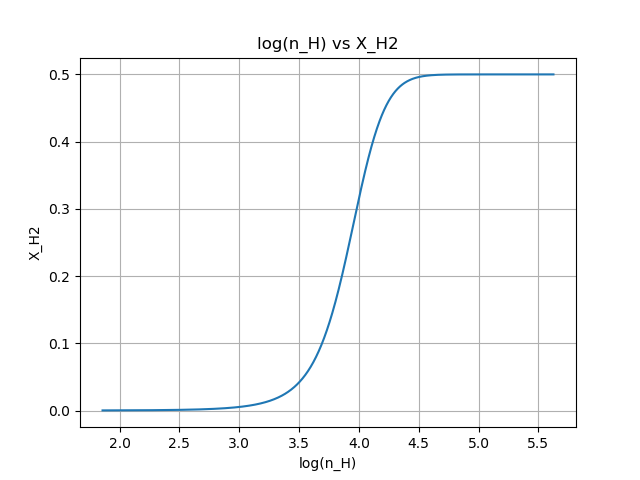
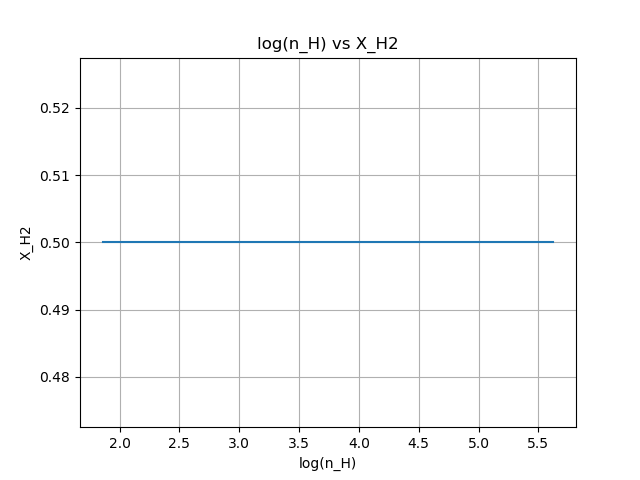
Modified the initial code for self shielding
Modified the initial code for self shielding of H2, but X_H2 is still constant at the same value (0.5), which needs to be solved yet.

diff --git a/X_CO_self_shielding.py b/X_CO_self_shielding.py
@@ -22,27 +22,24 @@ def calc_n_LW(n_H, G_o, lambda_jeans):
     n_LW = rad_field_outside * exp_tau
     return n_LW
 
-def calc_n_LW2(n_H, n_H2, G_o, lambda_jeans, X_H2):
+def calc_n_LW_ss(n_H, n_H2, G_o, lambda_jeans):
     m_p = 1.672621777e-24   # g
     kappa = 1000 * m_p
     rad_field_outside = G_o #in solar units
     exp_tau_H = np.exp(-kappa * n_H * lambda_jeans)
-    exp_tau_H2 = np.exp(-kappa * n_H2 * lambda_jeans)
-    n_LW2 = rad_field_outside * exp_tau_H * exp_tau_H2 * (1 - X_H2)
-    return n_LW2
-
-def calc_n_LW_ss(n_H, n_H2, G_o, lambda_jeans, sigma_s):
-    m_p = 1.672621777e-24   # g
-    kappa = 1000 * m_p
-    rad_field_outside = G_o #in solar units
-    exp_tau_H = np.exp(-kappa * n_H * lambda_jeans)
-    N_s = n_H2 * lambda_jeans
-    N_H2 = n_H2 * 3e18
-    term1 = 0.965 / ((1 + (np.sqrt(N_H2*N_s)/(np.sqrt(2)*5e4*sigma_s)) )**2)
-    term2 = (0.035 / np.sqrt(1 + (N_H2/5e4) ) ) * np.exp(-1 * np.sqrt(1 + (N_H2/5e4) ) / 1180 )
+    term1 = (0.965/((1+((n_H2*lambda_jeans)/5e4))**2))
+    term2 = ( (0.035/np.sqrt(1+((n_H2*lambda_jeans)/5e4))) * np.exp(-1*np.sqrt(1+((n_H2*lambda_jeans)/5e4))/1180) )
     exp_tau_H2 = term1 + term2
-    n_LW2 = rad_field_outside * exp_tau_H * exp_tau_H2
-    return n_LW2
+    n_LW_ss = rad_field_outside * exp_tau_H * exp_tau_H2
+    return n_LW_ss, exp_tau_H2
+
+def calc_X_H2_ss(n_H, Z, n_LW_ss):
+    DC = 1.7e-11
+    CC = 2.5e-17            #cm3 s-1
+    numerator = DC * n_LW_ss
+    denominator = CC * Z * n_H
+    X_H2 = 1 / (2 + (numerator/denominator) )
+    return X_H2
 
 def calc_X_H2(n_H, Z, n_LW):
     DC = 1.7e-11
@@ -52,9 +49,9 @@ def calc_X_H2(n_H, Z, n_LW):
     X_H2 = 1 / (2 + (numerator/denominator) )
     return X_H2
 
-def calc_X_CO(n_H, n_H2, n_LW2):
-    rate_CHX = 5.e-10 * n_LW2
-    rate_CO = 1.e-10 * n_LW2
+def calc_X_CO(n_H, n_H2, n_LW):
+    rate_CHX = 5.e-10 * n_LW
+    rate_CO = 1.e-10 * n_LW
     x0 = 2.e-4
     k0 = 5.e-16 #cm3 s-1
     k1 = 5.e-10 #cm3 s-1
@@ -76,6 +73,7 @@ def CO_density():
     n_H = np.zeros(1000)
     n_LW = np.zeros(1000)
     n_LW_ss = np.zeros(1000)
+    exp_tau_H2 = np.zeros(1000)
     n_H2 = np.zeros(1000)
     X_CO = np.zeros(1000)
     n_CO = np.zeros(1000)
@@ -89,43 +87,68 @@ def CO_density():
     n_H_mean = 1e4
     Z = 1
     G_o = 1
+    flag = [None]*1000
+    n_LW_1 = np.zeros(1000)
+    n_LW_2 = np.zeros(1000)
+    n_LW_3 = np.zeros(1000)
+    n_LW_4 = np.zeros(1000)
+    n_LW_5 = np.zeros(1000)
+    X_H2_1 = np.zeros(1000)
+    X_H2_2 = np.zeros(1000)
+    X_H2_3 = np.zeros(1000)
+    X_H2_4 = np.zeros(1000)
+    X_H2_5 = np.zeros(1000)
+    n_H2_1 = np.zeros(1000)
+    n_H2_2 = np.zeros(1000)
+    n_H2_3 = np.zeros(1000)
+    n_H2_4 = np.zeros(1000)
+    n_H2_5 = np.zeros(1000)
+    exp_tau_H2_2 = np.zeros(1000)
+    exp_tau_H2_3 = np.zeros(1000)
+    exp_tau_H2_4 = np.zeros(1000)
+    exp_tau_H2_5 = np.zeros(1000)
+
     for i in range(0, 1000):
         s[i] = smin + i*ds
-        pdf = make_pdf(s, s_bar, sigma_s)
-        n_H = n_H_mean * np.exp(s)
-        lambda_jeans = calc_lambda_jeans(n_H)
+        pdf[i] = make_pdf(s[i], s_bar, sigma_s)
+        n_H[i] = n_H_mean * np.exp(s[i])
+        lambda_jeans[i] = calc_lambda_jeans(n_H[i])
 
-        n_LW = calc_n_LW(n_H, G_o, lambda_jeans)
-        X_H2 = calc_X_H2(n_H, Z, n_LW)
-        n_H2 = n_H * X_H2
+        n_LW_1[i] = calc_n_LW(n_H[i], G_o, lambda_jeans[i])
+        X_H2_1[i] = calc_X_H2(n_H[i], Z, n_LW[i])
+        n_H2_1[i] = n_H[i] * X_H2_1[i]
 
-        '''n_LW_2 = calc_n_LW2(n_H, n_H2, G_o, lambda_jeans, X_H2)
-        X_H2_2 = calc_X_H2(n_H, Z, n_LW_2)
-        n_H2_2 = n_H * X_H2_2
+        n_LW_ss[i], exp_tau_H2_2[i] = calc_n_LW_ss(n_H[i], n_H2_1[i], G_o, lambda_jeans[i])
+        X_H2_2[i] = calc_X_H2_ss(n_H[i], Z, n_LW_ss[i])
+        n_H2_2[i] = n_H[i] * X_H2_2[i]
 
-        n_LW_3 = calc_n_LW2(n_H, n_H2_2, G_o, lambda_jeans, X_H2_2)
-        X_H2_3 = calc_X_H2(n_H, Z, n_LW_3)
-        n_H2_3 = n_H * X_H2_3
+        n_LW_3[i], exp_tau_H2_3[i] = calc_n_LW_ss(n_H[i], n_H2_2[i], G_o, lambda_jeans[i])
+        X_H2_3[i] = calc_X_H2_ss(n_H[i], Z, n_LW_3[i])
+        n_H2_3[i] = n_H[i] * X_H2_3[i]
 
-        n_LW_4 = calc_n_LW2(n_H, n_H2_3, G_o, lambda_jeans, X_H2_3)
-        X_H2_4 = calc_X_H2(n_H, Z, n_LW_4)
-        n_H2_4 = n_H * X_H2_4
+        n_LW_4[i], exp_tau_H2_4[i] = calc_n_LW_ss(n_H[i], n_H2_3[i], G_o, lambda_jeans[i])
+        X_H2_4[i] = calc_X_H2_ss(n_H[i], Z, n_LW_4[i])
+        n_H2_4[i] = n_H[i] * X_H2_4[i]
 
-        n_LW_5 = calc_n_LW2(n_H, n_H2_4, G_o, lambda_jeans, X_H2_4)
-        X_H2_5 = calc_X_H2(n_H, Z, n_LW_5)
-        n_H2_5 = n_H * X_H2_5
+        n_LW_5[i], exp_tau_H2_5[i] = calc_n_LW_ss(n_H[i], n_H2_4[i], G_o, lambda_jeans[i])
+        X_H2_5[i] = calc_X_H2_ss(n_H[i], Z, n_LW_5[i])
+        n_H2_5[i] = n_H[i] * X_H2_5[i]
+        if X_H2_1[i] == X_H2_5[i] :
+            flag[i] = 'yes'
+        else:
+            flag[i] = 'no'
 
-        n_LW = n_LW_5
-        X_H2 = X_H2_5
-        n_H2 = n_H2_5'''
+    n_LW= n_LW_5
+    X_H2 = X_H2_5
+    n_H2 = n_H2_5
+    exp_tau_H2 = exp_tau_H2_5
+    X_CO = calc_X_CO(n_H, n_H2_1, n_LW_1)
+    n_CO = calc_n_CO(n_H, X_CO)
+    print(flag)
+    plotting(n_H, pdf, lambda_jeans, X_H2, X_CO, n_CO, exp_tau_H2)
+    return n_H, pdf, lambda_jeans, X_H2, X_CO, n_CO, exp_tau_H2
 
-        n_LW_ss = calc_n_LW_ss(n_H, n_H2, G_o, lambda_jeans, sigma_s)
-        X_CO = calc_X_CO(n_H, n_H2, n_LW_ss)
-        n_CO = calc_n_CO(n_H, X_CO)
-    plotting(n_H, pdf, lambda_jeans, X_H2, X_CO, n_CO)
-    return n_H, pdf, lambda_jeans, X_H2, X_CO, n_CO
-
-def plotting(n_H, pdf, lambda_jeans, X_H2, X_CO, n_CO):
+def plotting(n_H, pdf, lambda_jeans, X_H2, X_CO, n_CO, exp_tau_H2):
     plt.plot(np.log10(n_H), pdf)
     plt.xlabel('log(n_H)')
     plt.ylabel('pdf')
@@ -174,9 +197,24 @@ def plotting(n_H, pdf, lambda_jeans, X_H2, X_CO, n_CO):
     plt.savefig('log(n_H)vsX_CO.png'.format())
     plt.clf()
 
+    plt.plot(np.log10(n_H), exp_tau_H2)
+    plt.xlabel('log(n_H)')
+    plt.ylabel('S(H2)')
+    plt.grid(b=True, which='both', axis='both')
+    plt.title("log(n_H) vs S(H2)-Draine's")
+    plt.savefig('log(n_H)vsexp_tau_H2.png'.format())
+    plt.clf()
+
+    plt.plot(n_H, exp_tau_H2)
+    plt.xlabel('n_H')
+    plt.ylabel('S(H2)')
+    plt.grid(b=True, which='both', axis='both')
+    plt.title("n_H vs S(H2)-Draine's")
+    plt.savefig('n_Hvsexp_tau_H2.png'.format())
+    plt.clf()
 
 if __name__=='__main__':
     path = 'for X_CO_self_shielding'
     os.makedirs(path, exist_ok=True)
     os.chdir(path)
-    n_H, pdf, lambda_jeans, X_H2, X_CO, n_CO = CO_density()
+    n_H, pdf, lambda_jeans, X_H2, X_CO, n_CO, exp_tau_H2 = CO_density()
